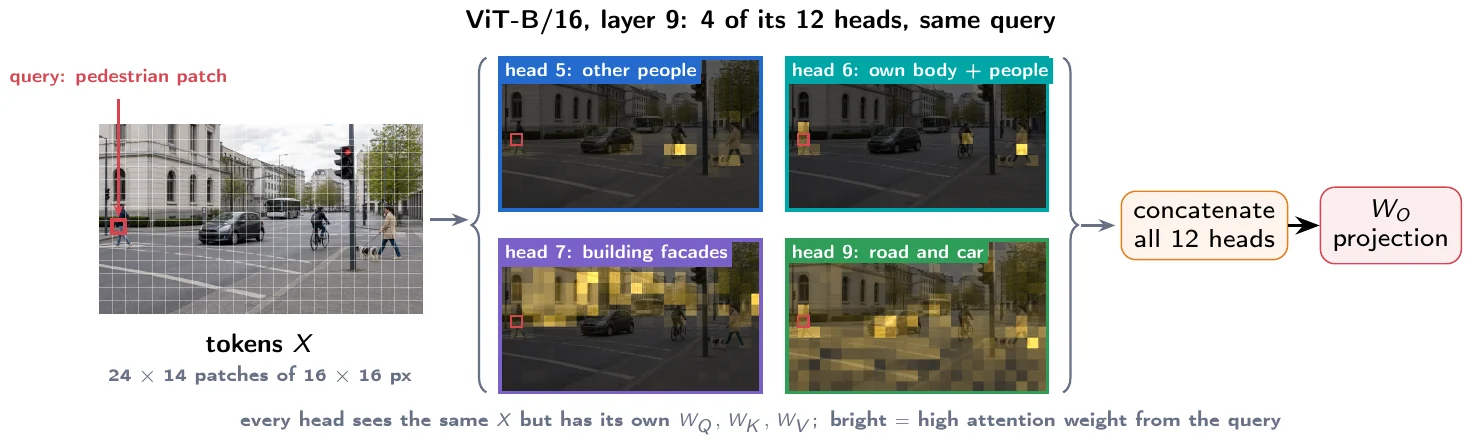
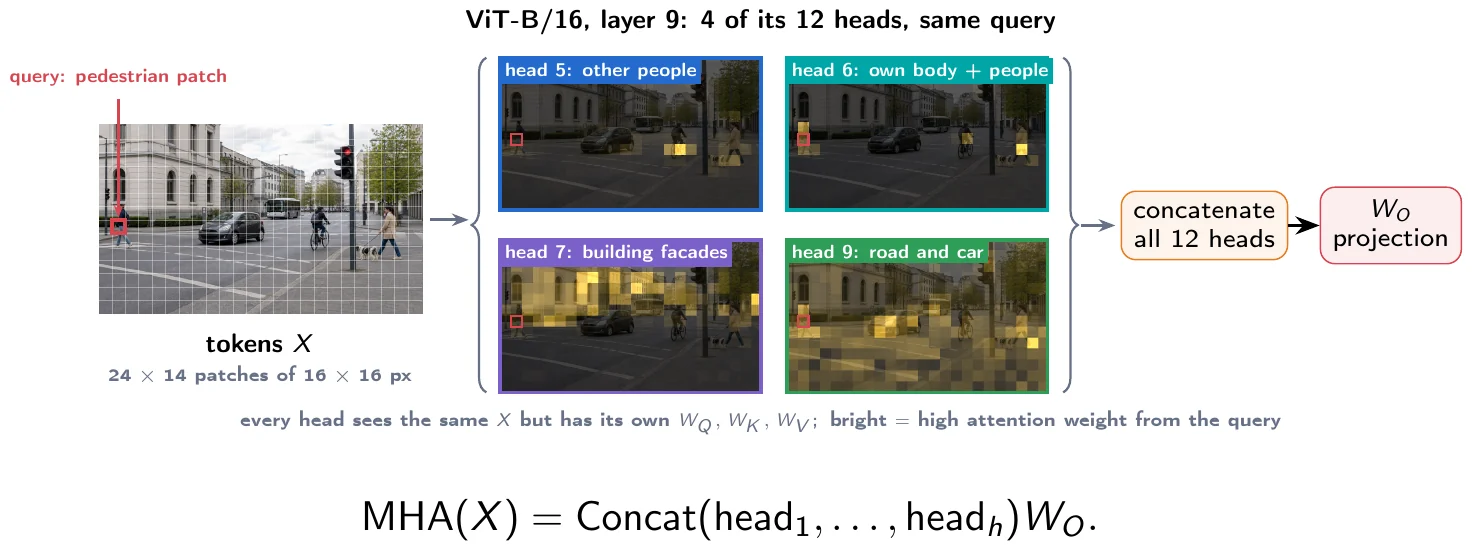
Refine DL4CV Lecture 1 web note
- Explain input normalization and the standard ImageNet mean and std.
- Write batch normalization with bold vector notation.
- Remove the anchor-encoding worked example and the matching exercise.
- Fix the crops of the receptive-field, VGG, CNN-limitations, and
  segmentation-metrics figures (top) and of the multi-head attention
  figure (bottom, now ending with the MHA formula).

diff --git a/scripts/figures/dl4cv_lecture_01_figures.py b/scripts/figures/dl4cv_lecture_01_figures.py
@@ -46,20 +46,20 @@ FIGURES: dict[str, tuple[int, tuple[float, float, float, float]]] = {
     "convolution-layer": (35, (0.15, 0.09, 0.99, 0.59)),
     "stride-padding-dilation": (36, (0.13, 0.25, 0.53, 0.64)),
     "pooling": (37, (0.15, 0.19, 0.93, 0.56)),
-    "receptive-field": (38, (0.13, 0.14, 0.575, 0.705)),
+    "receptive-field": (38, (0.13, 0.125, 0.575, 0.705)),
     "cnn-pattern": (39, (0.14, 0.11, 0.90, 0.56)),
-    "vgg": (40, (0.13, 0.18, 0.585, 0.435)),
+    "vgg": (40, (0.13, 0.125, 0.585, 0.435)),
     "resnet": (41, (0.13, 0.4, 0.56, 0.88)),
     "activations": (42, (0.57, 0.15, 0.99, 0.42)),
     "feature-hierarchy": (44, (0.14, 0.105, 0.94, 0.59)),
     "fpn": (45, (0.13, 0.115, 0.93, 0.7)),
-    "cnn-limitations": (47, (0.13, 0.20, 0.595, 0.72)),
+    "cnn-limitations": (47, (0.13, 0.15, 0.595, 0.72)),
     # Vision Transformer recap
     "attention-intuition": (49, (0.14, 0.135, 0.61, 0.66)),
     "patchify": (50, (0.14, 0.09, 0.93, 0.64)),
     "vit-pipeline": (51, (0.14, 0.105, 0.93, 0.68)),
     "qkv": (52, (0.14, 0.14, 0.93, 0.745)),
-    "multi-head-attention": (53, (0.15, 0.09, 0.99, 0.53)),
+    "multi-head-attention": (53, (0.15, 0.09, 0.99, 0.62)),
     "transformer-block": (54, (0.13, 0.11, 0.58, 0.79)),
     "swin": (55, (0.14, 0.1, 0.99, 0.51)),
     "backbone": (56, (0.15, 0.14, 0.99, 0.55)),
@@ -97,7 +97,7 @@ FIGURES: dict[str, tuple[int, tuple[float, float, float, float]]] = {
     "skip-connections": (93, (0.13, 0.12, 0.61, 0.77)),
     "unet": (94, (0.13, 0.18, 0.625, 0.73)),
     "deeplab": (95, (0.13, 0.11, 0.99, 0.455)),
-    "segmentation-metrics": (96, (0.13, 0.21, 0.52, 0.59)),
+    "segmentation-metrics": (96, (0.13, 0.19, 0.52, 0.59)),
     "instance-segmentation": (97, (0.14, 0.19, 0.61, 0.60)),
     "mask-rcnn": (98, (0.14, 0.13, 0.99, 0.4)),
     # Pose estimation and tracking
